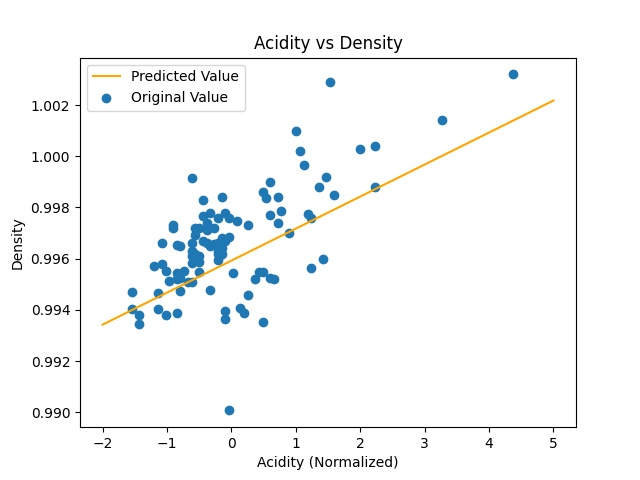
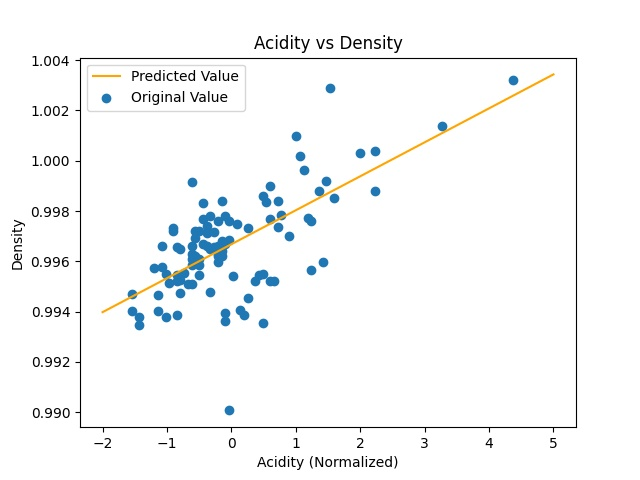
updated files

diff --git a/Assignment-1/Q1/main.py b/Assignment-1/Q1/main.py
@@ -51,6 +51,8 @@ def batch_gradient(theta, BATCH_SIZE, data_X, data_Y): # -(1/batch_size) * summa
     return loss, gradient
 
 def converge(loss1, loss2):
+    if(loss1 > 1 or loss2 > 1):
+        return False
     return abs(loss1 - loss2) <= DELTA 
 
 def predict(theta, data_X, data_Y):
@@ -279,6 +281,7 @@ def partB(iterations, learning_rate, theta, theta_list, loss, data_x, data_y):
 
 def partA(iterations, learning_rate, stopping_threshold, theta, theta_list, loss, data_x, data_y):
     print("Part A")
+    print("Learning Rate: {}".format(learning_rate))
     print("Iterations: {}".format(iterations))
     print("Stopping Threshold: {}".format(stopping_threshold))
     print("Parameters Learned: {}".format(theta))
